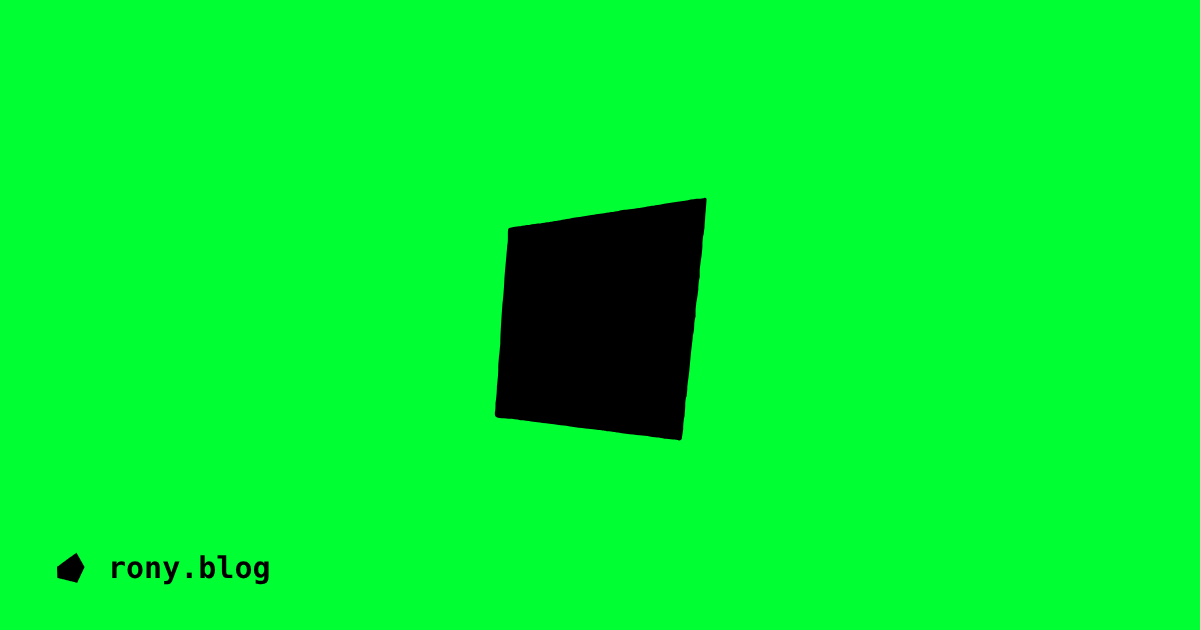
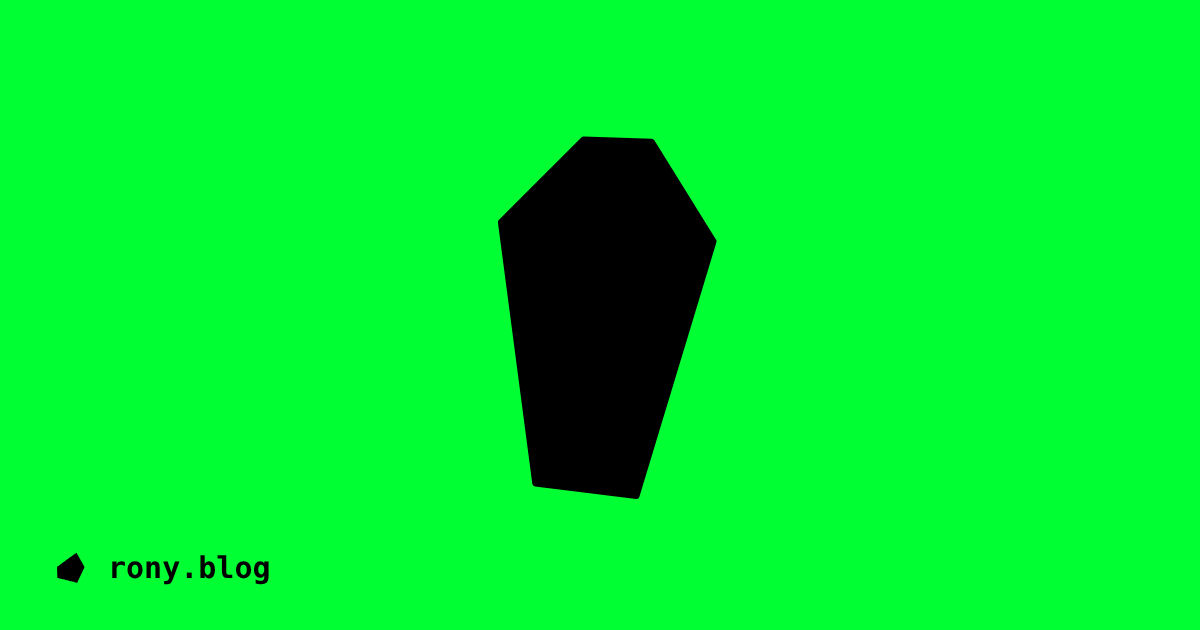
Draw Sauvez. a coffin
A solid black coffin in the same hand-cut style as the other drawings
replaces the slab, on the green, in the feed, the social cuts and the
post's share card. It joins the icon library.

Claude-Session: https://claude.ai/code/session_01DvgCqh7jZkxuLgej98F7v5

Changed region(s): [[0.4008, 0.4524, 0.5858, 0.8143], [0.4008, 0.2111, 0.5858, 0.4222], [0.555, 0.3619, 0.6167, 0.4825]]

diff --git a/index.html b/index.html
@@ -374,6 +374,7 @@ h2.year { font-size: 13px; font-weight: 700; letter-spacing: .3em; color: var(--
   <symbol id="i-frame" viewBox="0 0 64 64"><path fill="currentColor" fill-rule="evenodd" d="M16.0 54.4 C21.7 54.3 21.2 54.4 21.2 53.6 C21.2 53.1 21.1 53.0 20.7 53.0 C20.2 52.9 16.8 52.8 14.9 52.9 C13.9 52.9 12.3 52.9 11.4 52.9 L9.8 52.9 L9.7 51.5 C9.7 50.8 9.6 50.1 9.6 50.0 C9.6 49.9 9.6 48.0 9.5 45.7 C9.5 43.5 9.5 41.6 9.4 41.5 C9.4 41.5 9.1 41.5 8.8 41.5 L8.3 41.5 L8.3 43.5 C8.2 44.6 8.2 47.5 8.2 49.8 C8.1 53.8 8.1 54.2 8.2 54.3 C8.4 54.5 8.4 54.5 16.0 54.4 Z M56.3 54.2 C56.5 54.1 56.5 41.7 56.4 41.6 C56.3 41.4 55.3 41.4 55.1 41.6 C55.1 41.7 55.0 42.3 55.0 44.0 C55.0 45.4 55.0 46.4 55.0 46.6 C54.9 47.0 54.9 47.4 54.9 48.6 C55.0 49.8 55.0 50.1 54.9 50.2 C54.9 50.3 54.8 50.7 54.8 51.5 C54.8 52.2 54.8 52.8 54.8 52.8 C54.8 52.8 52.8 52.8 50.4 52.9 C47.9 52.9 45.9 52.9 45.7 52.9 C45.6 53.0 45.0 53.0 44.5 53.0 C43.5 53.0 43.4 53.0 43.4 53.7 C43.4 54.0 43.4 54.2 43.5 54.3 C43.6 54.4 56.2 54.4 56.3 54.2 Z M9.5 21.7 C9.6 20.9 9.6 19.8 9.6 18.1 C9.6 15.7 9.7 11.1 9.7 11.0 C9.8 10.9 10.0 10.9 10.9 11.0 C12.1 11.0 12.0 11.0 13.5 11.0 C14.2 10.9 15.1 10.9 15.7 11.0 C16.3 11.0 16.8 11.0 16.9 10.9 C17.1 10.9 18.0 10.9 19.0 10.9 C20.1 10.9 20.9 10.8 21.0 10.8 C21.1 10.8 21.1 10.7 21.1 10.2 C21.1 9.9 21.1 9.6 21.0 9.6 C20.9 9.5 14.3 9.3 13.1 9.4 C12.5 9.5 11.2 9.5 10.2 9.5 C8.4 9.5 8.4 9.5 8.3 9.7 C8.2 9.8 8.2 10.8 8.2 16.2 C8.2 19.6 8.3 22.5 8.3 22.6 C8.3 22.6 8.5 22.7 8.9 22.6 L9.5 22.6 L9.5 21.7 Z M56.3 22.4 C56.4 22.3 56.5 20.5 56.5 18.4 C56.5 16.2 56.6 13.4 56.6 12.1 C56.7 9.7 56.7 9.7 56.5 9.5 C56.4 9.4 56.3 9.4 52.1 9.4 C46.6 9.4 43.6 9.5 43.5 9.6 C43.4 9.7 43.4 10.5 43.5 10.7 C43.6 10.8 44.0 10.8 47.5 10.9 C49.6 10.9 52.2 10.9 53.2 10.9 C54.6 10.9 54.9 10.9 55.0 11.0 C55.1 11.0 55.1 11.4 55.0 12.3 C54.9 14.2 54.9 16.3 55.0 16.4 C55.1 16.6 55.1 17.5 55.1 19.5 C55.1 21.7 55.1 22.4 55.2 22.5 C55.3 22.5 55.5 22.6 55.8 22.6 C56.2 22.6 56.3 22.6 56.3 22.4 Z"/></symbol>
   <symbol id="i-dots" viewBox="0 0 64 64"><path fill="currentColor" fill-rule="evenodd" d="M28.5 55.4 C28.7 55.2 28.9 55.1 29.0 55.1 C29.2 54.9 29.5 54.4 29.6 53.9 C29.8 53.4 29.8 53.4 29.6 52.9 C29.4 52.2 29.0 51.5 28.7 51.5 C28.6 51.5 28.5 51.5 28.3 51.4 C27.9 51.1 26.9 51.1 26.5 51.4 C25.6 51.9 25.1 53.0 25.3 53.8 C25.5 54.6 25.8 55.0 26.3 55.3 C26.7 55.6 26.8 55.6 27.5 55.6 C28.0 55.6 28.2 55.5 28.5 55.4 Z M19.7 46.5 C20.2 46.0 20.3 45.9 20.3 45.2 L20.3 44.7 L19.9 44.2 C19.6 43.9 19.5 43.8 19.1 43.8 C18.5 43.6 18.1 43.8 17.6 44.2 C17.0 44.8 17.0 45.5 17.6 46.2 C18.0 46.7 18.0 46.7 18.8 46.7 C19.3 46.7 19.5 46.6 19.7 46.5 Z M41.8 44.9 C42.4 44.5 42.7 43.9 42.4 43.4 C42.3 43.1 41.6 42.6 41.4 42.6 C41.1 42.6 40.7 42.9 40.4 43.2 C39.8 44.1 40.8 45.4 41.8 44.9 Z M29.8 38.1 C30.3 37.7 30.5 37.2 30.4 36.7 C30.2 36.2 29.6 35.6 29.1 35.6 C28.8 35.6 28.4 35.9 28.0 36.2 C27.7 36.5 27.7 36.6 27.7 37.0 C27.7 37.3 27.7 37.5 27.9 37.7 C28.4 38.3 29.2 38.5 29.8 38.1 Z M39.1 29.5 C39.3 29.4 39.6 29.3 39.7 29.1 C40.0 28.9 40.0 28.9 40.0 28.2 C40.0 27.5 39.9 27.2 39.3 26.9 C38.9 26.7 38.6 26.6 38.1 26.8 C37.6 27.0 37.2 27.4 37.2 27.9 C37.1 28.5 37.2 28.8 37.5 29.1 C38.1 29.6 38.5 29.7 39.1 29.5 Z M20.3 27.2 C21.0 27.1 21.4 27.0 21.9 26.5 C22.4 26.0 22.6 25.7 22.9 24.9 C23.1 24.2 23.1 23.8 22.9 23.2 C22.8 23.0 22.8 22.8 22.8 22.7 C22.8 22.3 21.9 21.3 21.3 21.0 C20.8 20.7 20.0 20.5 19.6 20.5 C19.3 20.5 18.4 20.8 17.9 21.0 C17.6 21.2 17.0 21.8 17.0 21.9 C17.0 22.0 16.9 22.1 16.8 22.2 C16.7 22.3 16.6 22.6 16.6 22.7 C16.6 22.9 16.5 23.1 16.4 23.2 C16.3 23.5 16.3 24.6 16.4 24.9 C16.5 25.0 16.6 25.3 16.7 25.6 C17.1 26.3 18.1 27.1 19.1 27.2 C19.6 27.3 19.7 27.3 20.3 27.2 Z M49.6 21.2 C49.8 21.1 50.1 20.9 50.2 20.6 C50.5 20.3 50.5 20.2 50.5 19.7 C50.5 19.3 50.5 19.1 50.3 18.8 C50.1 18.5 50.0 18.4 49.5 18.2 C49.0 18.0 49.0 18.0 48.6 18.1 C48.3 18.2 48.1 18.3 47.8 18.6 C47.4 19.1 47.3 19.3 47.3 19.7 C47.3 20.5 47.7 21.1 48.5 21.3 C48.9 21.4 49.2 21.4 49.6 21.2 Z M41.1 13.4 C41.5 13.3 41.8 13.1 42.0 12.9 C42.7 12.3 43.0 10.9 42.6 10.3 C42.5 10.2 42.5 10.1 42.5 10.0 C42.5 9.8 42.0 9.2 41.7 9.0 C41.5 8.9 41.1 8.7 40.8 8.6 C40.3 8.5 40.3 8.5 39.8 8.7 C39.5 8.7 39.1 8.9 38.9 9.0 C38.6 9.2 38.2 9.8 38.2 9.9 C38.2 9.9 38.1 10.1 38.0 10.3 C37.8 10.8 37.8 11.4 38.1 12.1 C38.3 12.8 38.8 13.2 39.6 13.5 C39.9 13.6 40.2 13.7 40.3 13.7 C40.4 13.7 40.7 13.6 41.1 13.4 Z"/></symbol>
   <symbol id="i-quad" viewBox="0 0 64 64"><path fill="currentColor" fill-rule="evenodd" d="M43.9 50.0 C43.9 49.9 44.0 49.3 44.1 48.6 C44.1 47.9 44.2 47.0 44.3 46.7 C44.3 46.4 44.4 45.7 44.4 45.1 C44.4 44.5 44.5 43.9 44.6 43.8 C44.6 43.6 44.7 43.1 44.7 42.6 C44.7 42.2 44.9 41.0 45.0 40.0 C45.1 39.1 45.2 37.7 45.3 36.9 C45.4 36.1 45.5 35.3 45.5 35.0 C45.6 34.7 45.7 34.1 45.7 33.6 C45.7 33.1 45.8 32.5 45.9 32.2 C45.9 32.0 45.9 31.6 45.9 31.3 C45.9 31.0 46.0 30.5 46.0 30.2 C46.1 29.9 46.2 29.1 46.3 28.3 C46.3 27.6 46.4 26.8 46.5 26.5 C46.5 26.3 46.5 25.8 46.5 25.6 C46.5 25.3 46.6 24.6 46.7 23.9 C46.8 23.3 46.9 22.3 46.9 21.8 C46.9 21.2 47.0 20.6 47.0 20.5 C47.1 20.4 47.1 19.8 47.2 19.3 C47.2 18.8 47.3 18.1 47.3 17.7 C47.4 16.7 47.5 15.3 47.5 15.1 C47.4 15.0 47.3 14.9 47.1 15.0 C47.0 15.0 46.7 15.1 46.3 15.1 C46.0 15.1 45.3 15.2 44.8 15.3 C44.3 15.4 43.4 15.5 42.8 15.6 C42.2 15.7 41.4 15.8 41.0 15.9 C40.6 16.0 40.1 16.0 39.8 16.1 C39.5 16.1 38.9 16.2 38.6 16.3 C37.4 16.5 36.4 16.6 35.8 16.7 C35.5 16.7 35.1 16.8 34.9 16.8 C34.7 16.9 34.3 16.9 33.9 17.0 C33.6 17.0 33.0 17.1 32.6 17.2 C31.8 17.3 31.2 17.4 29.9 17.6 C29.3 17.7 28.7 17.8 28.4 17.8 C25.8 18.3 25.4 18.3 24.5 18.5 C24.2 18.5 23.7 18.6 23.3 18.7 C22.9 18.7 22.2 18.8 21.7 18.9 C21.3 18.9 20.7 19.0 20.4 19.1 C20.2 19.1 19.7 19.2 19.4 19.2 C19.0 19.3 18.8 19.3 18.7 19.4 C18.6 19.5 18.6 19.9 18.6 20.5 C18.6 21.0 18.6 21.6 18.5 21.9 C18.5 22.3 18.4 23.1 18.1 26.6 C18.0 28.8 17.9 29.6 17.8 30.5 C17.7 31.9 17.5 34.8 17.5 36.2 C17.4 36.9 17.4 37.7 17.3 38.0 C17.3 38.3 17.2 39.1 17.2 39.8 C17.2 40.5 17.1 41.7 17.0 42.4 C17.0 43.2 16.9 44.3 16.8 44.8 C16.8 45.3 16.8 45.9 16.7 46.2 C16.7 46.8 16.8 46.9 17.7 47.0 C18.1 47.0 18.7 47.1 18.9 47.1 C19.2 47.1 19.9 47.2 20.4 47.3 C20.9 47.3 21.6 47.4 22.0 47.5 C22.8 47.6 23.5 47.7 25.3 47.9 C25.9 48.0 26.7 48.1 27.1 48.1 C27.5 48.2 28.3 48.3 28.9 48.4 C31.7 48.7 32.5 48.8 33.0 48.9 C33.4 48.9 33.8 49.0 34.0 49.0 C34.1 49.0 34.7 49.1 35.2 49.2 C36.8 49.4 38.0 49.5 38.9 49.6 C39.3 49.7 40.0 49.8 40.3 49.8 C40.6 49.8 41.1 49.9 41.4 50.0 C41.7 50.0 42.2 50.1 42.6 50.1 C42.9 50.1 43.3 50.2 43.4 50.2 C43.6 50.3 43.8 50.2 43.9 50.0 Z"/></symbol>
+  <symbol id="i-coffin" viewBox="0 0 64 64"><path fill="currentColor" stroke="currentColor" stroke-width="0.9" stroke-linejoin="round" d="M29.6 6.5 L39.5 6.8 L48.5 21.3 L37.3 58.3 L22.6 56.5 L17.6 18.5 Z"/></symbol>
   <symbol id="i-about" viewBox="0 0 64 64"><path fill="currentColor" fill-rule="evenodd" d="M20.66 51.21 C20.83 51.16 21.33 51.10 21.77 51.08 C22.50 51.03 22.99 50.96 24.17 50.70 C24.37 50.65 24.75 50.58 25.01 50.53 C25.27 50.49 25.76 50.36 26.09 50.26 C26.43 50.16 26.93 50.02 27.21 49.95 C28.07 49.74 28.52 49.59 29.64 49.15 C29.84 49.07 30.13 48.96 30.28 48.91 C30.43 48.86 30.64 48.78 30.75 48.72 C31.10 48.55 31.57 48.34 31.62 48.34 C31.69 48.34 33.94 47.22 34.33 46.99 C34.51 46.88 34.73 46.76 34.80 46.72 C34.88 46.69 35.15 46.52 35.41 46.35 C35.67 46.18 35.98 46.00 36.09 45.94 C36.20 45.89 36.34 45.80 36.38 45.74 C36.43 45.68 36.50 45.64 36.53 45.64 C36.56 45.64 36.76 45.52 36.98 45.37 C37.19 45.23 37.55 44.99 37.77 44.85 C38.20 44.57 39.04 43.99 39.22 43.84 C42.88 40.95 44.03 39.95 45.27 38.59 C45.48 38.36 45.90 37.92 46.20 37.60 C47.46 36.29 49.40 33.93 49.42 33.70 C49.42 33.68 49.53 33.52 49.66 33.35 C49.98 32.91 51.00 31.39 51.09 31.19 C51.14 31.10 51.25 30.90 51.34 30.75 C51.43 30.60 51.53 30.42 51.57 30.34 C51.73 30.00 51.98 29.50 52.16 29.16 C52.28 28.96 52.45 28.58 52.55 28.32 C52.65 28.06 52.76 27.79 52.79 27.71 C53.52 26.10 54.07 23.73 54.07 22.16 C54.08 21.03 53.84 19.50 53.51 18.61 C53.42 18.36 53.19 17.88 53.00 17.55 C52.81 17.22 52.66 16.88 52.66 16.79 C52.66 16.70 52.71 16.47 52.77 16.27 C52.88 15.88 52.87 15.17 52.73 14.57 C52.53 13.67 51.78 12.84 50.70 12.31 C50.20 12.07 49.71 11.88 49.55 11.88 C49.47 11.88 49.27 11.82 49.09 11.74 C48.79 11.60 48.71 11.59 47.56 11.63 C46.73 11.66 46.23 11.71 45.98 11.78 C45.77 11.85 45.39 11.92 45.13 11.95 C44.52 12.02 43.29 12.25 43.05 12.35 C42.95 12.39 42.79 12.42 42.71 12.42 C42.56 12.42 41.85 12.61 41.42 12.77 C41.20 12.85 40.54 13.05 40.00 13.20 C39.81 13.26 39.57 13.35 39.45 13.40 C39.33 13.46 39.20 13.50 39.16 13.50 C39.11 13.50 38.98 13.55 38.86 13.60 C38.75 13.65 38.53 13.74 38.38 13.80 C38.23 13.85 37.95 13.96 37.76 14.04 C37.56 14.11 37.24 14.24 37.05 14.32 C36.85 14.40 36.58 14.50 36.44 14.55 C36.30 14.61 35.99 14.74 35.73 14.86 C35.48 14.97 35.14 15.13 34.97 15.20 C34.80 15.28 34.27 15.53 33.79 15.76 C33.31 15.99 32.75 16.25 32.56 16.34 C32.13 16.53 31.88 16.77 31.66 17.23 C31.50 17.58 31.22 17.83 30.75 18.07 C30.64 18.12 30.44 18.24 30.30 18.32 C29.56 18.76 29.20 18.96 28.57 19.29 C28.19 19.48 27.85 19.65 27.81 19.65 C27.76 19.65 27.61 19.54 27.47 19.41 C27.32 19.28 27.14 19.17 27.07 19.17 C26.64 19.17 26.20 19.69 26.19 20.18 C26.19 20.35 26.15 20.54 26.11 20.59 C26.01 20.71 25.55 21.06 25.49 21.06 C25.42 21.06 24.39 21.76 23.46 22.44 C22.89 22.85 22.91 22.84 22.65 23.04 C22.54 23.13 22.36 23.25 22.26 23.31 C22.06 23.44 20.64 24.57 19.75 25.32 C18.63 26.25 15.51 29.44 14.83 30.35 C14.47 30.82 14.05 31.36 13.91 31.53 C13.85 31.59 13.68 31.83 13.52 32.04 C13.36 32.26 13.06 32.66 12.87 32.92 C12.67 33.18 12.42 33.54 12.31 33.71 C12.21 33.89 11.95 34.28 11.75 34.58 C11.55 34.89 11.11 35.69 10.76 36.37 C10.41 37.05 10.10 37.65 10.07 37.72 C10.03 37.79 9.94 38.01 9.86 38.21 C9.78 38.42 9.65 38.69 9.58 38.83 C9.51 38.97 9.45 39.13 9.45 39.19 C9.45 39.25 9.39 39.44 9.32 39.62 C9.04 40.30 8.69 41.57 8.63 42.09 C8.60 42.39 8.54 42.72 8.51 42.83 C8.40 43.14 8.42 44.68 8.54 45.00 C8.59 45.14 8.64 45.40 8.64 45.56 C8.64 45.72 8.70 46.01 8.78 46.20 C9.23 47.30 9.33 47.47 9.95 48.16 C10.32 48.58 11.25 49.37 11.91 49.82 C12.05 49.92 12.36 50.15 12.61 50.33 C13.36 50.90 13.54 50.98 14.00 50.97 C14.88 50.96 17.12 51.11 17.42 51.20 C17.84 51.34 20.23 51.34 20.66 51.21 Z M16.84 49.89 C16.51 49.86 16.11 49.80 15.97 49.76 C15.82 49.72 15.56 49.69 15.39 49.69 C15.06 49.69 14.28 49.49 13.74 49.27 C13.20 49.05 12.80 48.87 12.69 48.81 C12.64 48.77 12.48 48.69 12.35 48.61 C11.74 48.27 10.53 47.03 10.53 46.73 C10.53 46.68 10.47 46.53 10.40 46.39 C9.89 45.40 9.81 43.38 10.22 41.53 C10.36 40.91 10.62 40.13 10.86 39.56 C10.97 39.32 11.14 38.92 11.24 38.68 C11.34 38.44 11.47 38.20 11.52 38.14 C11.57 38.08 11.61 37.99 11.61 37.93 C11.61 37.82 11.71 37.64 12.49 36.22 C12.59 36.03 12.83 35.65 13.02 35.38 C13.43 34.79 13.71 34.38 13.80 34.22 C14.08 33.77 15.31 32.20 15.77 31.69 C16.18 31.24 16.87 30.46 17.25 30.01 C18.00 29.12 18.99 28.11 19.95 27.26 C20.32 26.92 20.99 26.33 21.43 25.93 C22.68 24.81 23.98 23.79 24.92 23.19 C24.98 23.15 25.45 22.84 25.96 22.50 C26.48 22.15 26.95 21.87 27.01 21.87 C27.08 21.87 27.24 22.04 27.39 22.26 L27.65 22.65 L28.10 22.67 C28.35 22.68 28.61 22.66 28.69 22.62 C28.88 22.52 28.96 22.14 28.96 21.42 C28.96 20.67 29.02 20.59 29.88 20.00 C31.15 19.14 31.50 19.00 32.01 19.20 C32.25 19.30 32.43 19.31 33.18 19.27 C34.23 19.21 34.50 19.13 34.50 18.85 C34.50 18.73 34.43 18.59 34.31 18.48 C34.14 18.31 34.07 18.30 33.63 18.30 C32.94 18.30 32.98 18.09 33.76 17.69 C34.00 17.57 34.35 17.39 34.53 17.28 C34.72 17.18 35.04 17.02 35.24 16.92 C35.44 16.82 35.72 16.68 35.86 16.60 C36.00 16.53 36.16 16.47 36.22 16.47 C36.28 16.47 36.41 16.43 36.51 16.37 C36.61 16.32 36.82 16.23 36.98 16.17 C37.69 15.92 37.85 15.86 37.97 15.80 C38.05 15.76 38.24 15.69 38.40 15.63 C39.11 15.38 39.27 15.31 39.47 15.22 C39.59 15.17 39.72 15.12 39.76 15.12 C39.80 15.12 39.96 15.07 40.12 15.00 C40.51 14.82 40.80 14.72 41.33 14.57 C41.58 14.50 41.99 14.39 42.24 14.32 C42.50 14.25 42.84 14.15 43.00 14.11 C43.17 14.07 43.53 13.97 43.80 13.90 C44.06 13.83 44.36 13.77 44.45 13.77 C44.55 13.77 44.74 13.73 44.88 13.68 C45.51 13.43 48.08 13.30 48.93 13.46 C49.89 13.64 50.85 14.24 51.11 14.82 C51.25 15.12 51.28 15.63 51.17 15.91 C51.13 16.02 51.07 16.31 51.04 16.57 C51.01 16.83 50.95 17.21 50.90 17.42 C50.84 17.70 50.83 17.98 50.88 18.53 C50.93 19.21 50.95 19.28 51.08 19.29 C51.19 19.31 51.28 19.23 51.45 18.96 C51.84 18.34 51.91 18.34 52.15 19.05 C52.40 19.80 52.48 20.47 52.48 21.81 C52.47 23.03 52.40 23.82 52.24 24.34 C52.18 24.52 52.10 24.81 52.05 24.98 C51.84 25.77 51.76 26.04 51.67 26.16 C51.62 26.23 51.58 26.35 51.58 26.42 C51.58 26.49 51.54 26.63 51.48 26.72 C51.43 26.82 51.31 27.09 51.21 27.31 C50.91 27.97 50.17 29.45 49.99 29.74 C49.90 29.89 49.78 30.10 49.72 30.21 C49.66 30.32 49.53 30.55 49.42 30.72 C49.31 30.88 49.19 31.08 49.16 31.16 C49.12 31.23 49.05 31.34 48.99 31.39 C48.93 31.44 48.88 31.50 48.88 31.53 C48.88 31.56 48.79 31.72 48.67 31.88 C48.56 32.04 48.42 32.24 48.35 32.34 C48.07 32.76 47.12 34.01 46.94 34.19 C46.83 34.31 46.55 34.64 46.31 34.94 C45.84 35.54 45.65 35.74 44.62 36.82 C44.03 37.45 43.18 38.28 42.40 39.02 C42.22 39.19 41.81 39.53 41.38 39.87 C41.25 39.98 40.95 40.25 40.70 40.48 C40.45 40.71 40.10 40.99 39.92 41.12 C39.74 41.24 39.30 41.58 38.94 41.87 C38.59 42.16 37.92 42.64 37.46 42.95 C37.00 43.26 36.51 43.60 36.36 43.71 C36.06 43.94 35.99 43.99 34.79 44.69 C34.32 44.97 33.84 45.26 33.72 45.33 C33.28 45.60 32.27 46.18 32.24 46.18 C32.22 46.18 32.03 46.30 31.82 46.45 C31.60 46.60 31.40 46.72 31.37 46.72 C31.34 46.72 31.12 46.81 30.88 46.92 C30.64 47.03 30.25 47.21 30.01 47.32 C29.77 47.44 29.55 47.53 29.52 47.53 C29.49 47.53 29.39 47.57 29.29 47.62 C29.19 47.67 29.00 47.75 28.86 47.80 C28.72 47.84 28.53 47.92 28.43 47.97 C28.33 48.02 28.21 48.07 28.16 48.07 C28.11 48.07 27.99 48.11 27.89 48.17 C27.70 48.28 27.50 48.35 26.57 48.66 C24.94 49.21 23.14 49.61 21.33 49.83 C20.56 49.92 17.69 49.96 16.84 49.89 Z M29.87 41.48 C30.10 41.43 30.38 41.37 30.51 41.35 C30.64 41.32 30.86 41.24 30.99 41.18 C31.12 41.11 31.42 40.96 31.66 40.84 C32.71 40.34 33.56 39.62 34.13 38.75 C34.53 38.14 35.11 36.81 35.11 36.51 C35.11 36.38 35.15 36.14 35.21 35.98 C35.33 35.64 35.34 34.57 35.23 34.23 C35.19 34.10 35.13 33.82 35.10 33.62 C34.98 32.70 34.35 31.44 33.59 30.58 C33.16 30.10 32.17 29.36 31.53 29.05 C30.75 28.67 29.69 28.42 28.73 28.37 C28.19 28.34 27.32 28.49 26.60 28.73 C26.43 28.79 26.20 28.86 26.09 28.89 C25.98 28.92 25.75 29.03 25.59 29.12 C25.42 29.22 25.19 29.35 25.08 29.41 C24.84 29.54 24.01 30.19 23.76 30.44 C23.59 30.62 23.06 31.30 22.91 31.56 C22.54 32.16 22.14 33.14 22.14 33.43 C22.14 33.55 22.09 33.78 22.04 33.92 C21.90 34.30 21.91 35.75 22.05 36.25 C22.35 37.35 22.71 38.17 23.11 38.69 C23.82 39.63 24.69 40.42 25.45 40.81 C26.92 41.56 28.48 41.80 29.87 41.48 Z"/></symbol>
 </svg>
 
@@ -444,6 +445,7 @@ h2.year { font-size: 13px; font-weight: 700; letter-spacing: .3em; color: var(--
       <figure><span class="gtile big"><svg class="ic"><use href="library.svg#i-dashes"/></svg></span><figcaption>dashes</figcaption></figure>
       <figure><span class="gtile big"><svg class="ic"><use href="library.svg#i-comet"/></svg></span><figcaption>comet</figcaption></figure>
       <figure><span class="gtile big"><svg class="ic"><use href="library.svg#i-blocks"/></svg></span><figcaption>blocks</figcaption></figure>
+      <figure><span class="gtile big"><svg class="ic"><use href="library.svg#i-coffin"/></svg></span><figcaption>coffin</figcaption></figure>
     </div>
     <p><strong>One post, many cuts.</strong> A post is written once as a list of parts: text, image or clip. The page shows it two ways: read, as an essay with the clips set into it, and swipe, panel by panel for a phone.</p>
     <p><strong>Two languages, one stream.</strong> Every piece appears in the language it was written in. A switch shows the other language, translated automatically, and the translated page always says so and links back to the original.</p>
@@ -588,7 +590,7 @@ h2.year { font-size: 13px; font-weight: 700; letter-spacing: .3em; color: var(--
       ]
     },
     {
-      id: 'sauvez', glyph: 'quad', lang: 'fr', kind: 'prose', numbered: false,
+      id: 'sauvez', glyph: 'coffin', lang: 'fr', kind: 'prose', numbered: false,
       date: '2015-05-07',
       title: 'Sauvez.',
       tags: '#prose',
